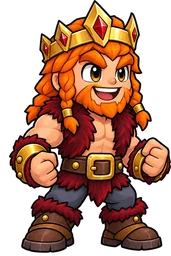
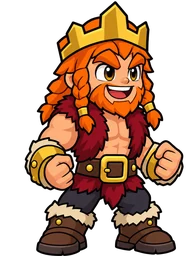
v3.10.1: hero looks follow the skin rarity
Every class now climbs a clear ladder: the free look is two flat colours
and an outline, basic three flat colours and one detail, rare simple
two-tone shading, legendary full shading with effects, mythic ornate gold,
glow and sparkles. All 15 regenerated from each hero's picture so the
character and pose stay the same; one crop per class keeps them aligned.

Claude-Session: https://claude.ai/code/session_01NGVu4sxjyzoLxdtp2SDHGs

diff --git a/js/sprites.js b/js/sprites.js
@@ -24,7 +24,7 @@ const OUTLINE = '#1a1033';
 // h = height in world units; hand = where the barbarian's axe sits (fraction of the image, from top-left).
 const HERO_SPRITES = {
     wizard: { h: 50 },
-    barbarian: { h: 50, hand: [0.907, 0.634] },
+    barbarian: { h: 50, hand: [0.85, 0.655] },
     goblin: { h: 48 }
 };
 const HeroSprites = {

diff --git a/js/core.js b/js/core.js
@@ -3,7 +3,7 @@
 class Game {
     constructor() {
         // Version system (bumped by the pre-commit hook, see VERSION-README.md)
-        this.version = "3.10.0";
+        this.version = "3.10.1";
         this.buildDate = "2026-10-24";
 
         this.canvas = document.getElementById('gameCanvas');

diff --git a/README.md b/README.md
@@ -62,7 +62,7 @@ js/                 the game, as classic scripts mixed into one Game class (no b
 game-utils.js       pure helpers shared with tests (level curve, combo tiers, …)
 audio.js            Web Audio engine: buses + limiter, voice manager, health watchdog,
                     synth monster hits/deaths and hero hurt sound (samples in sfx/)
-img/heroes/         hero sprites per class and skin (WebP, 256 px tall, ~20–30 KB each)
+img/heroes/         hero sprites per class and skin (WebP, 256 px tall, 16–43 KB each; plain at the free look, richer with each skin rarity)
 img/bosses/         boss and gatekeeper sprites (WebP, 360 px, ~40 KB each; generated with GPT Image 2.5)
 manifest.webmanifest, icons/   PWA install (fullscreen on iPhone via Add to Home Screen)
 tools/audio/        prepare.sh rebuilds sfx/ from the originals in tools/audio/src/
